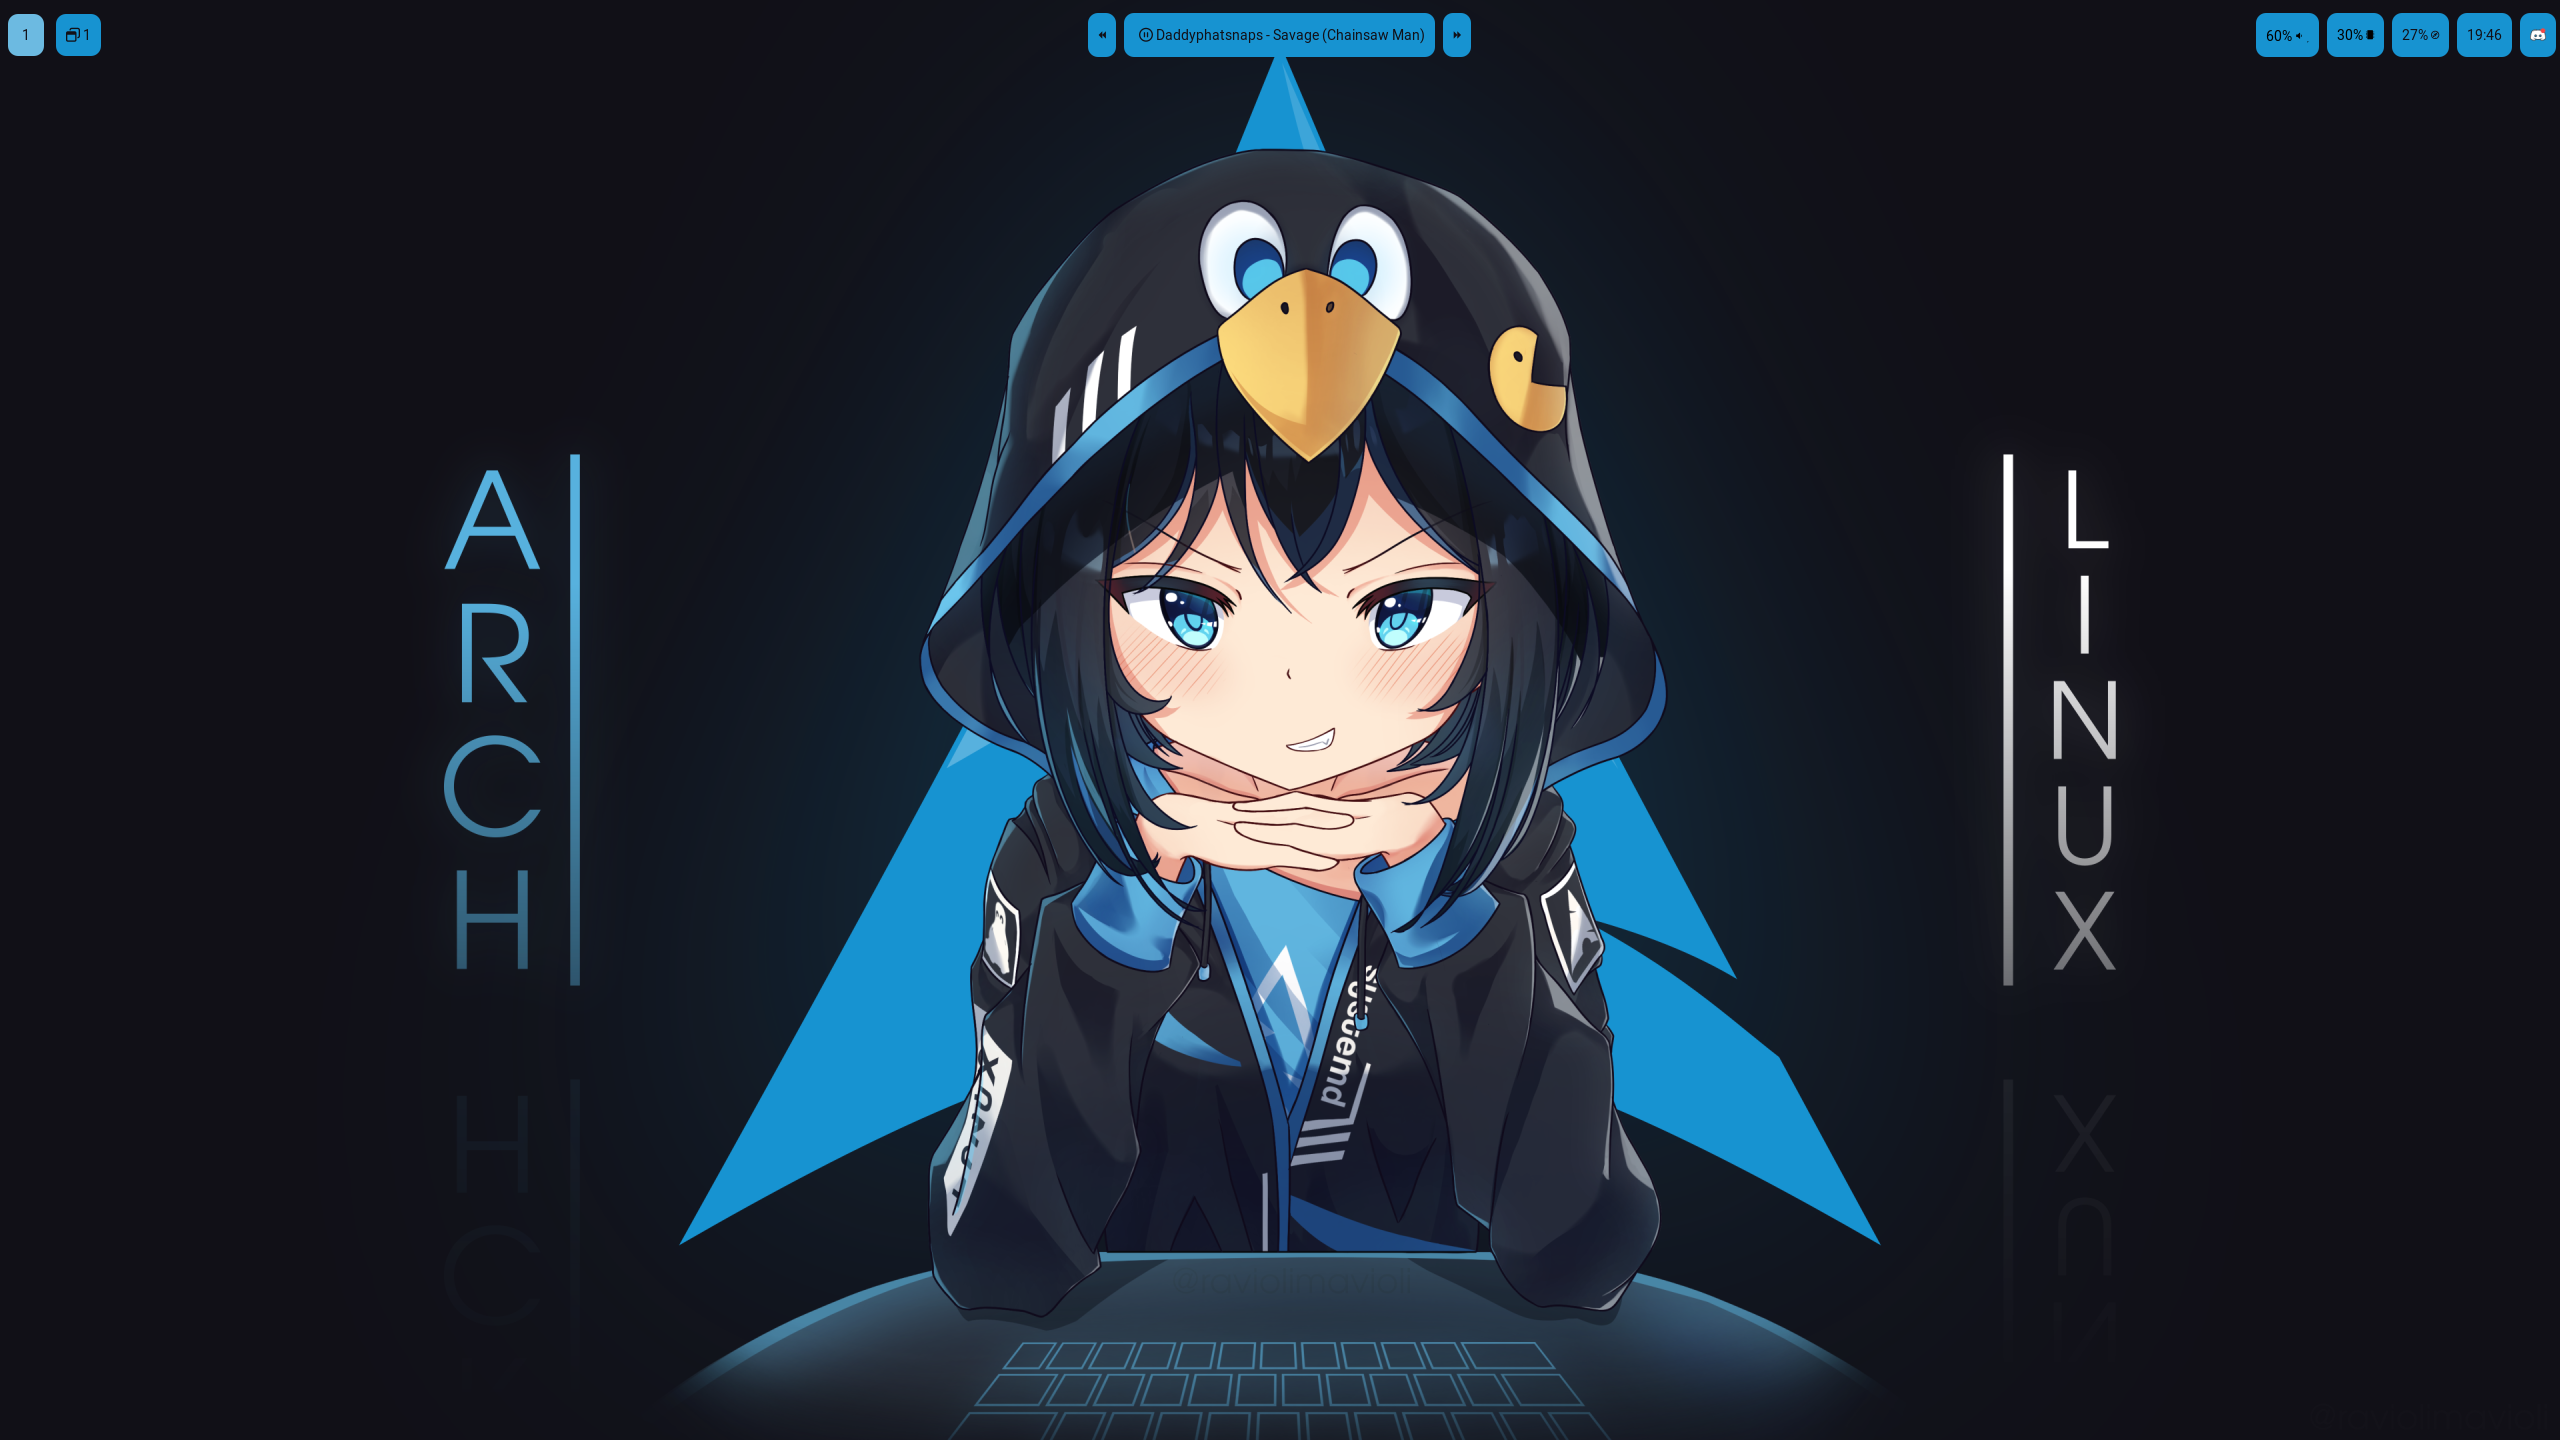
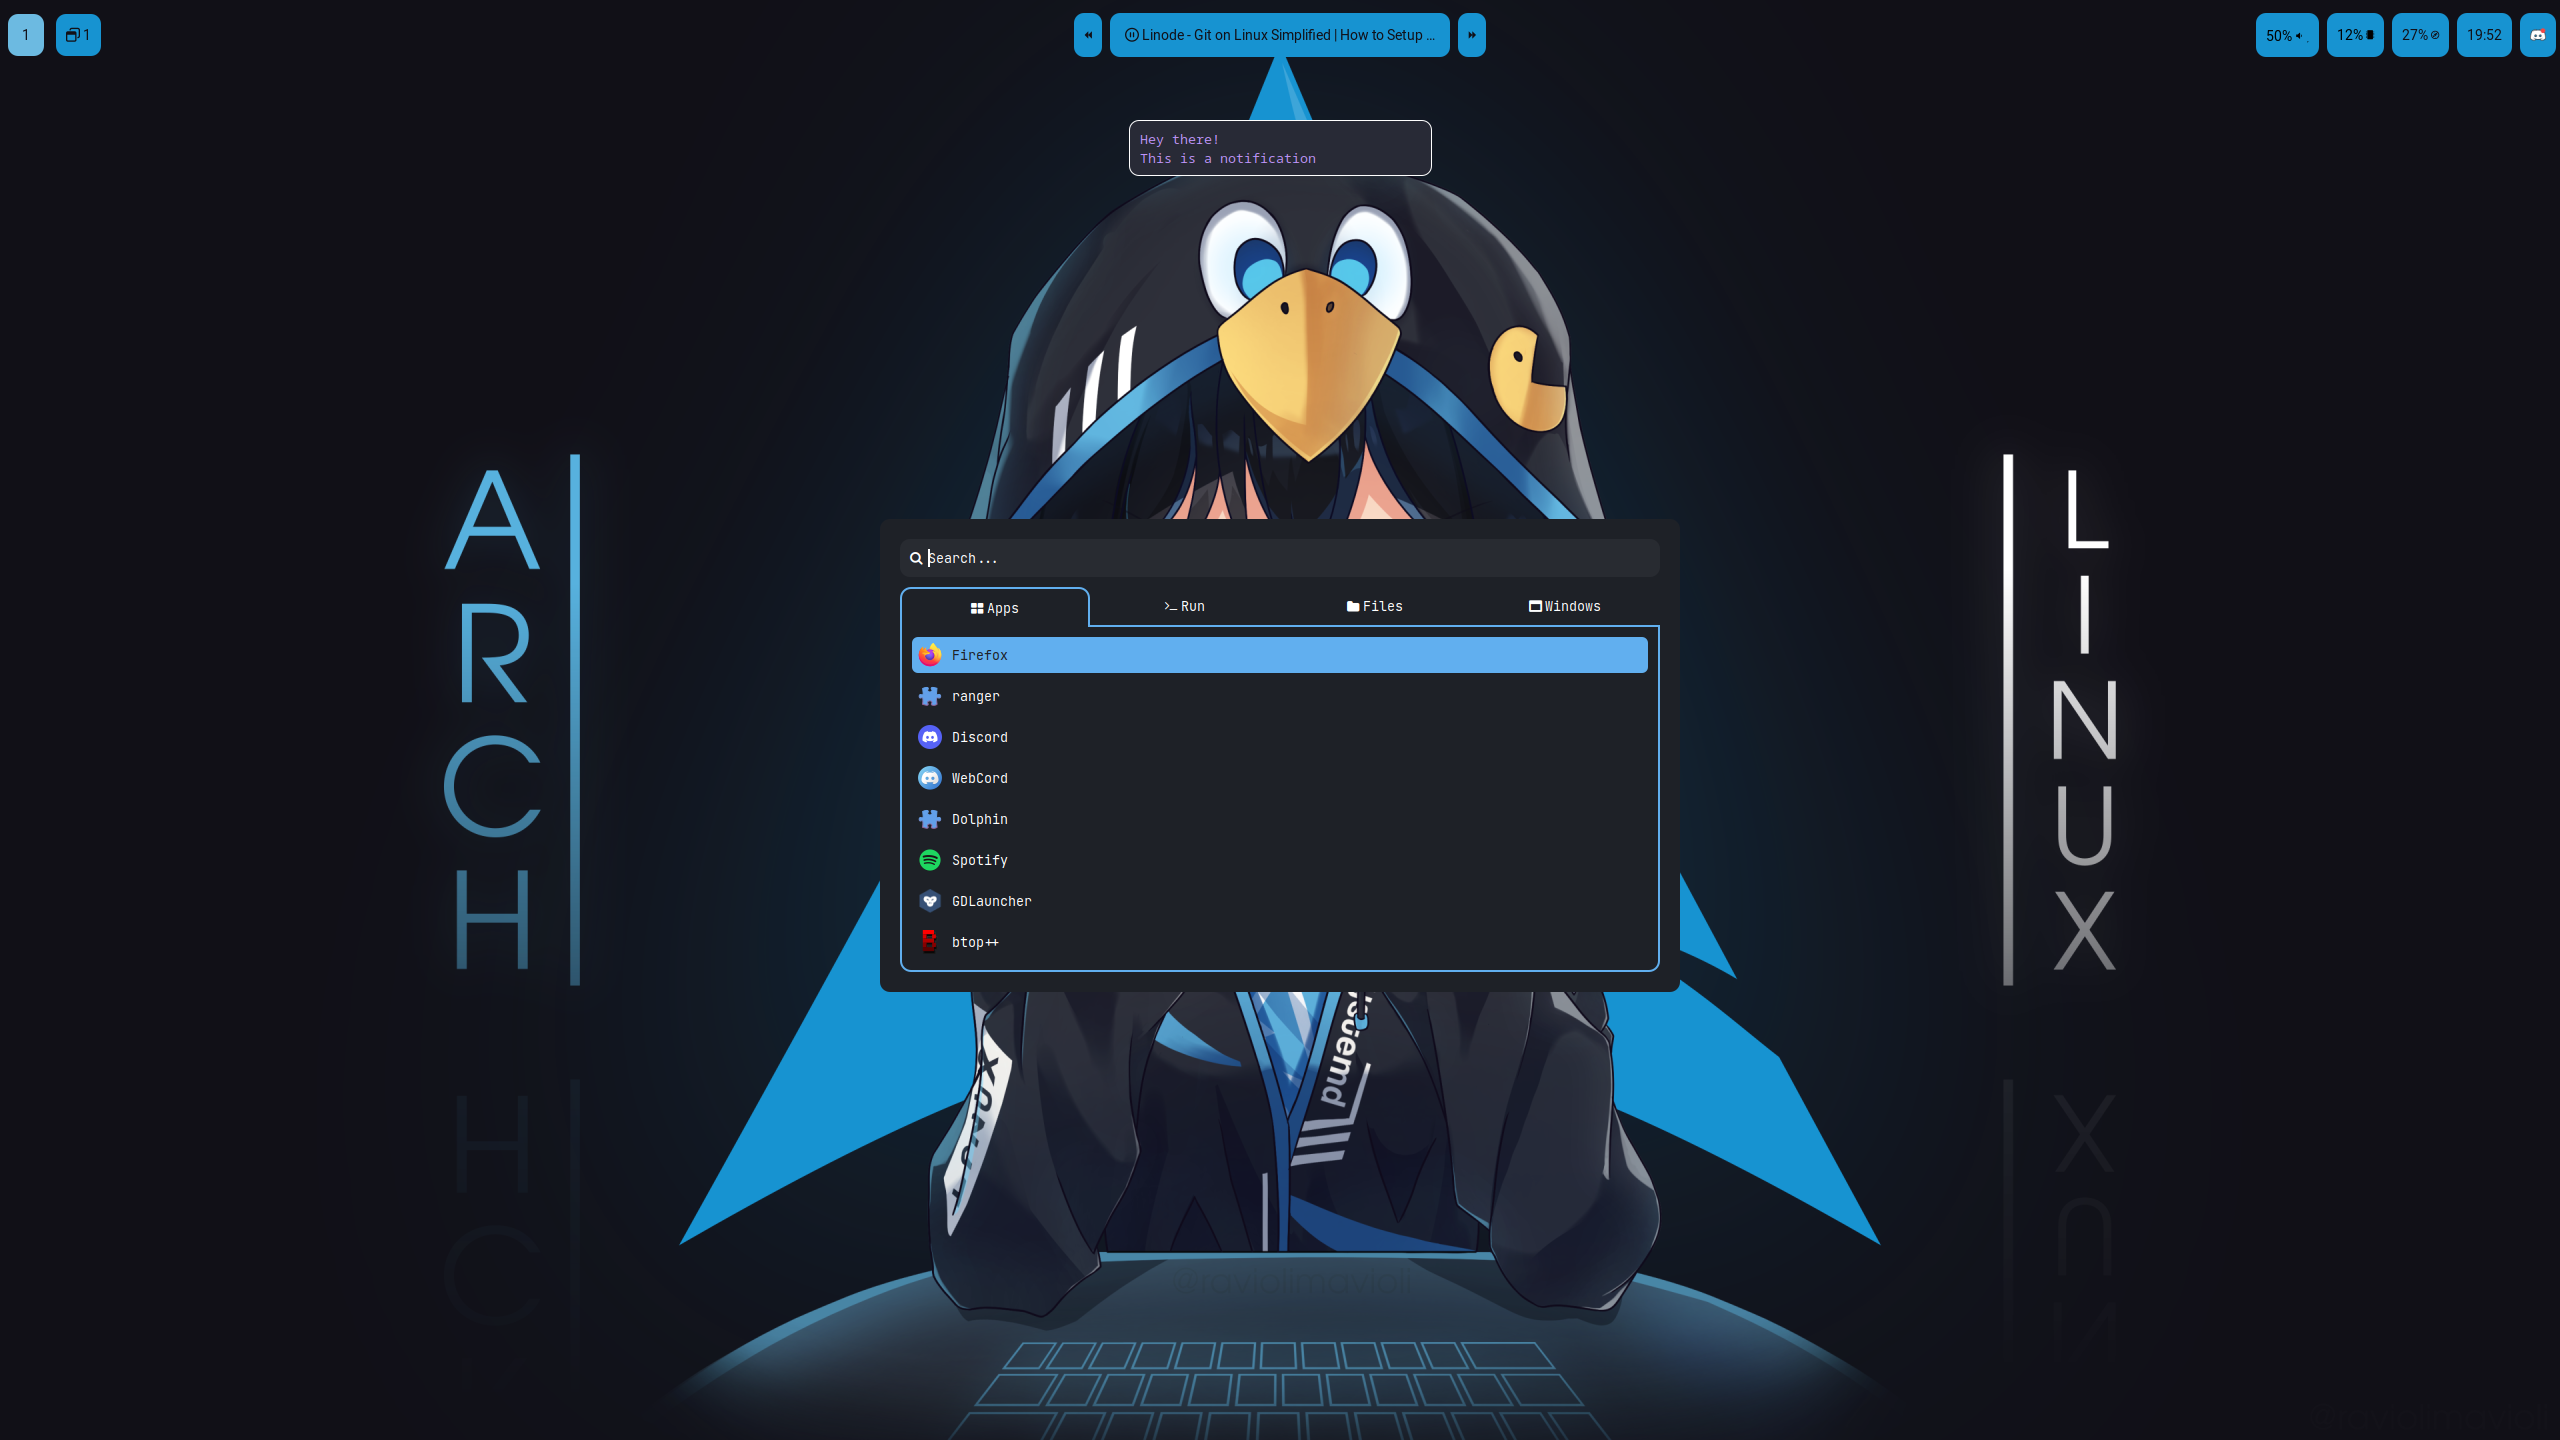
fixed screenshot?

diff --git a/README.md b/README.md
@@ -1,1 +1,3 @@
 Hello, these are my dotfiles. They aren't that great yet but I'm still working on them
+
+[screenshot](~/.config/screenshot.png)
